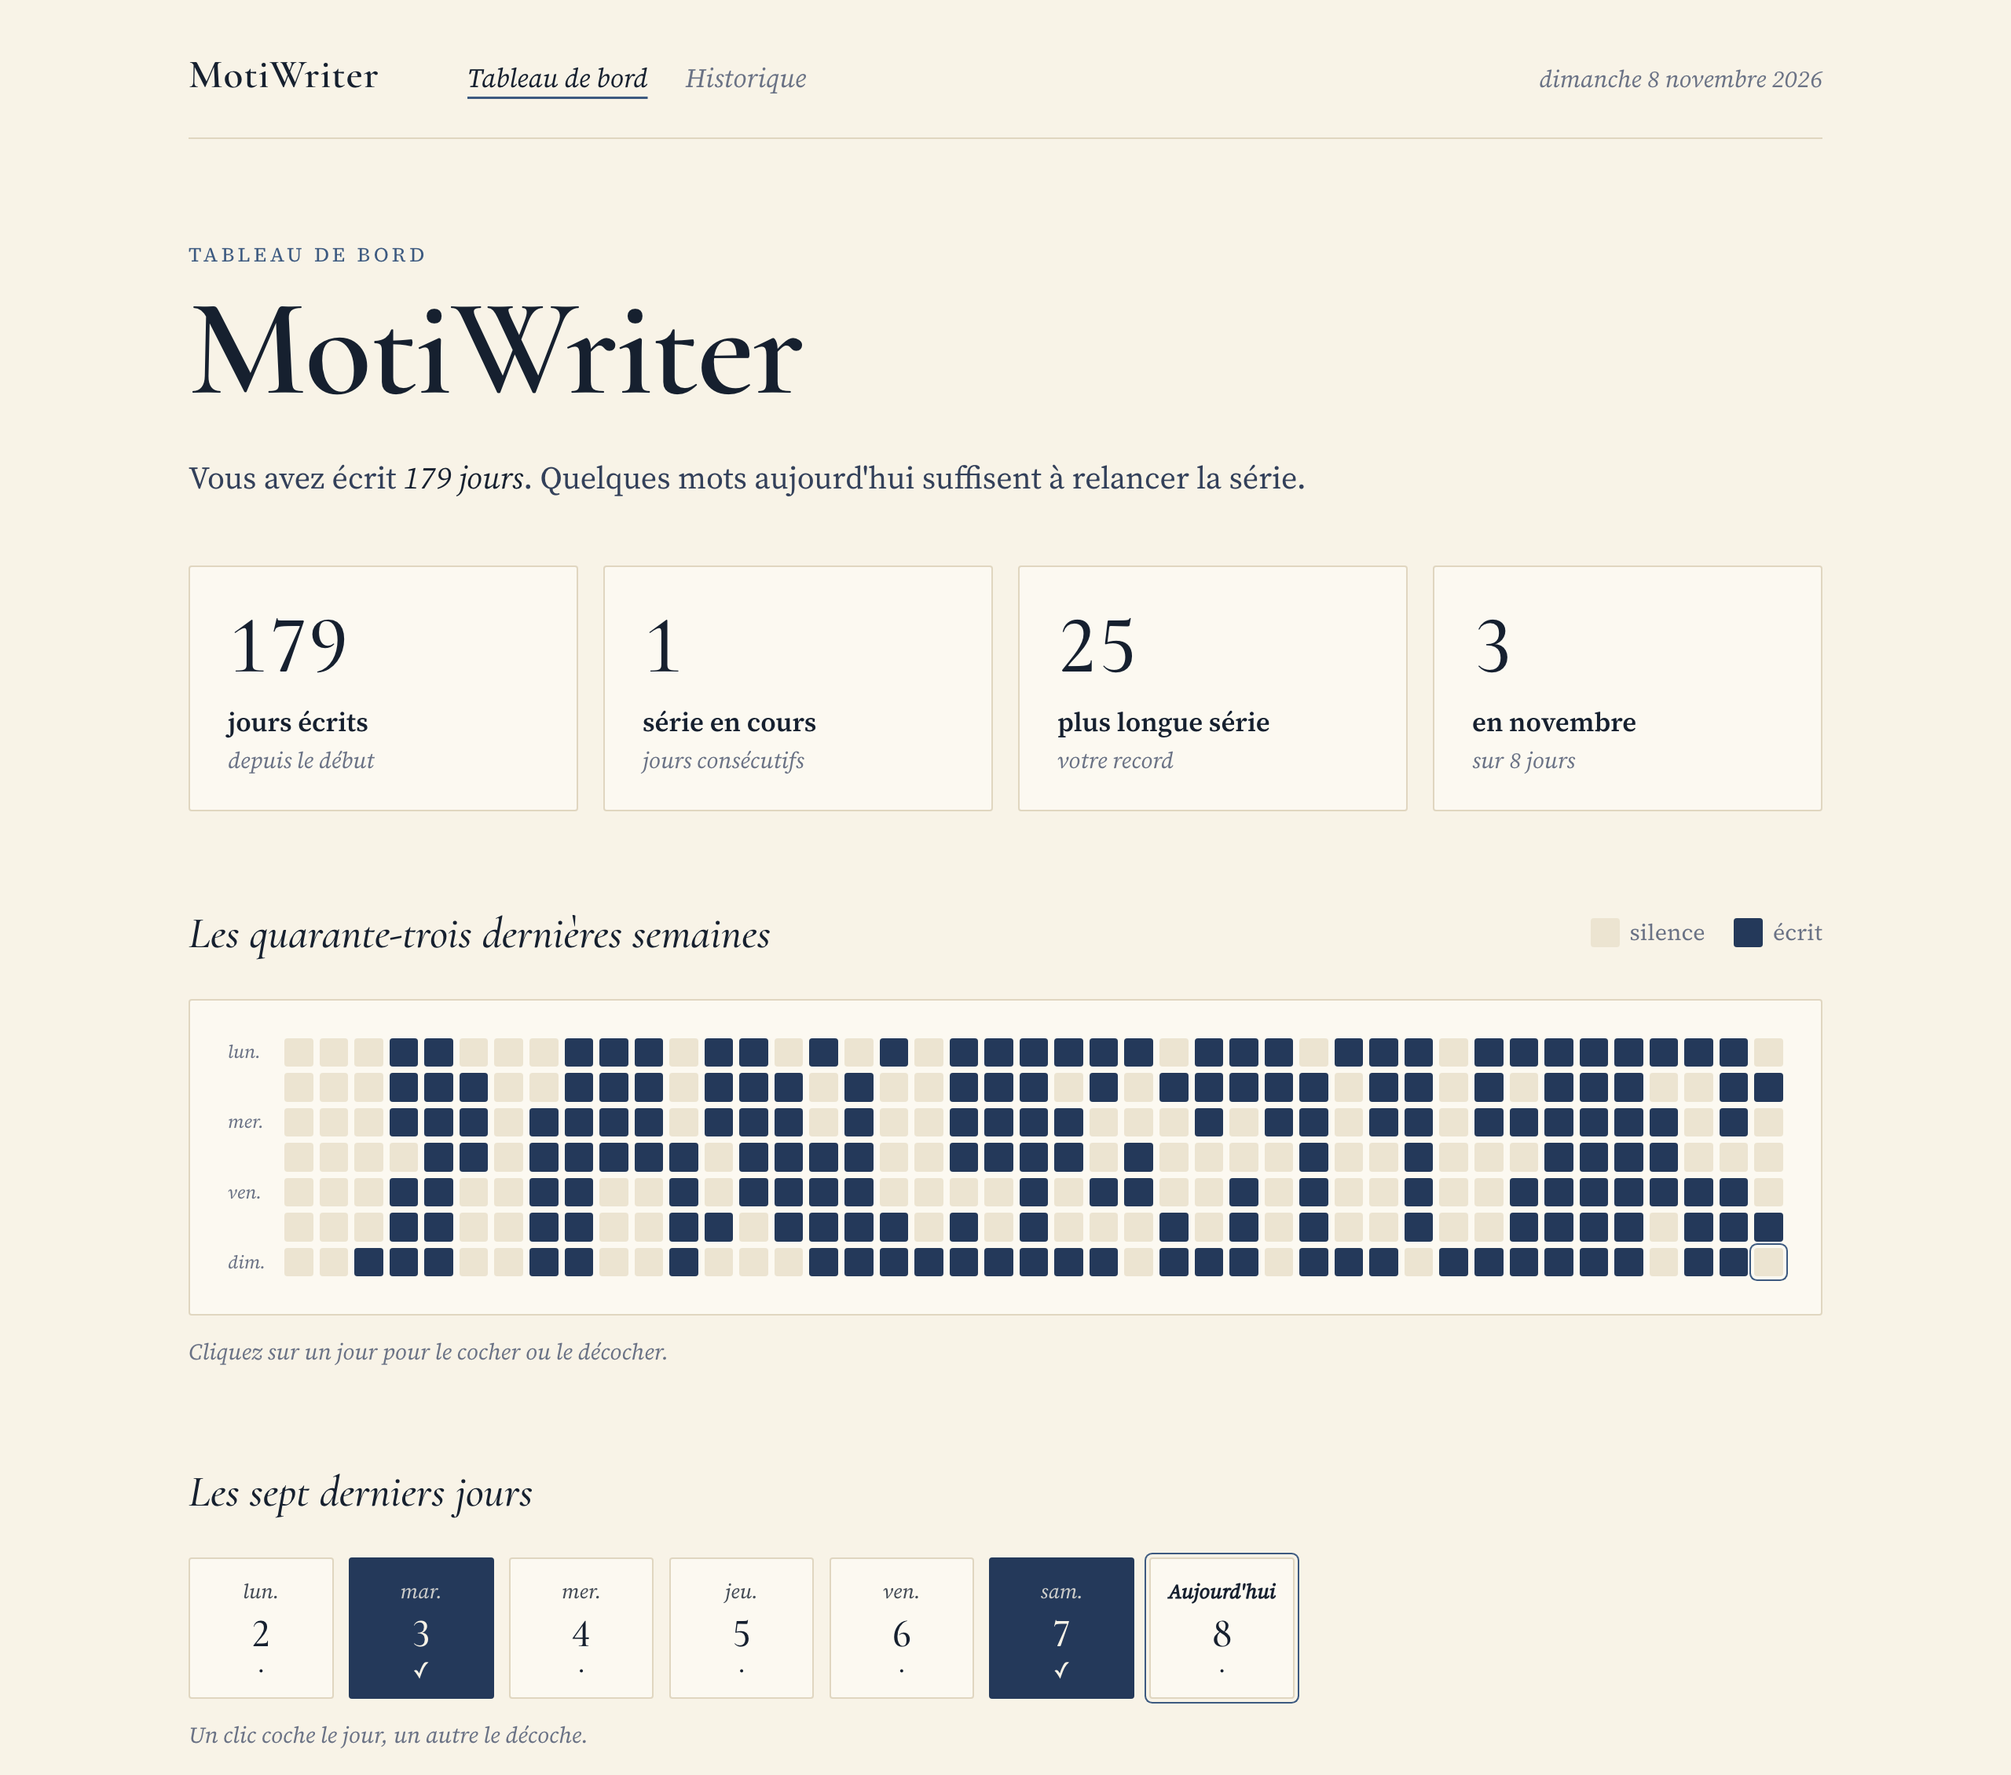
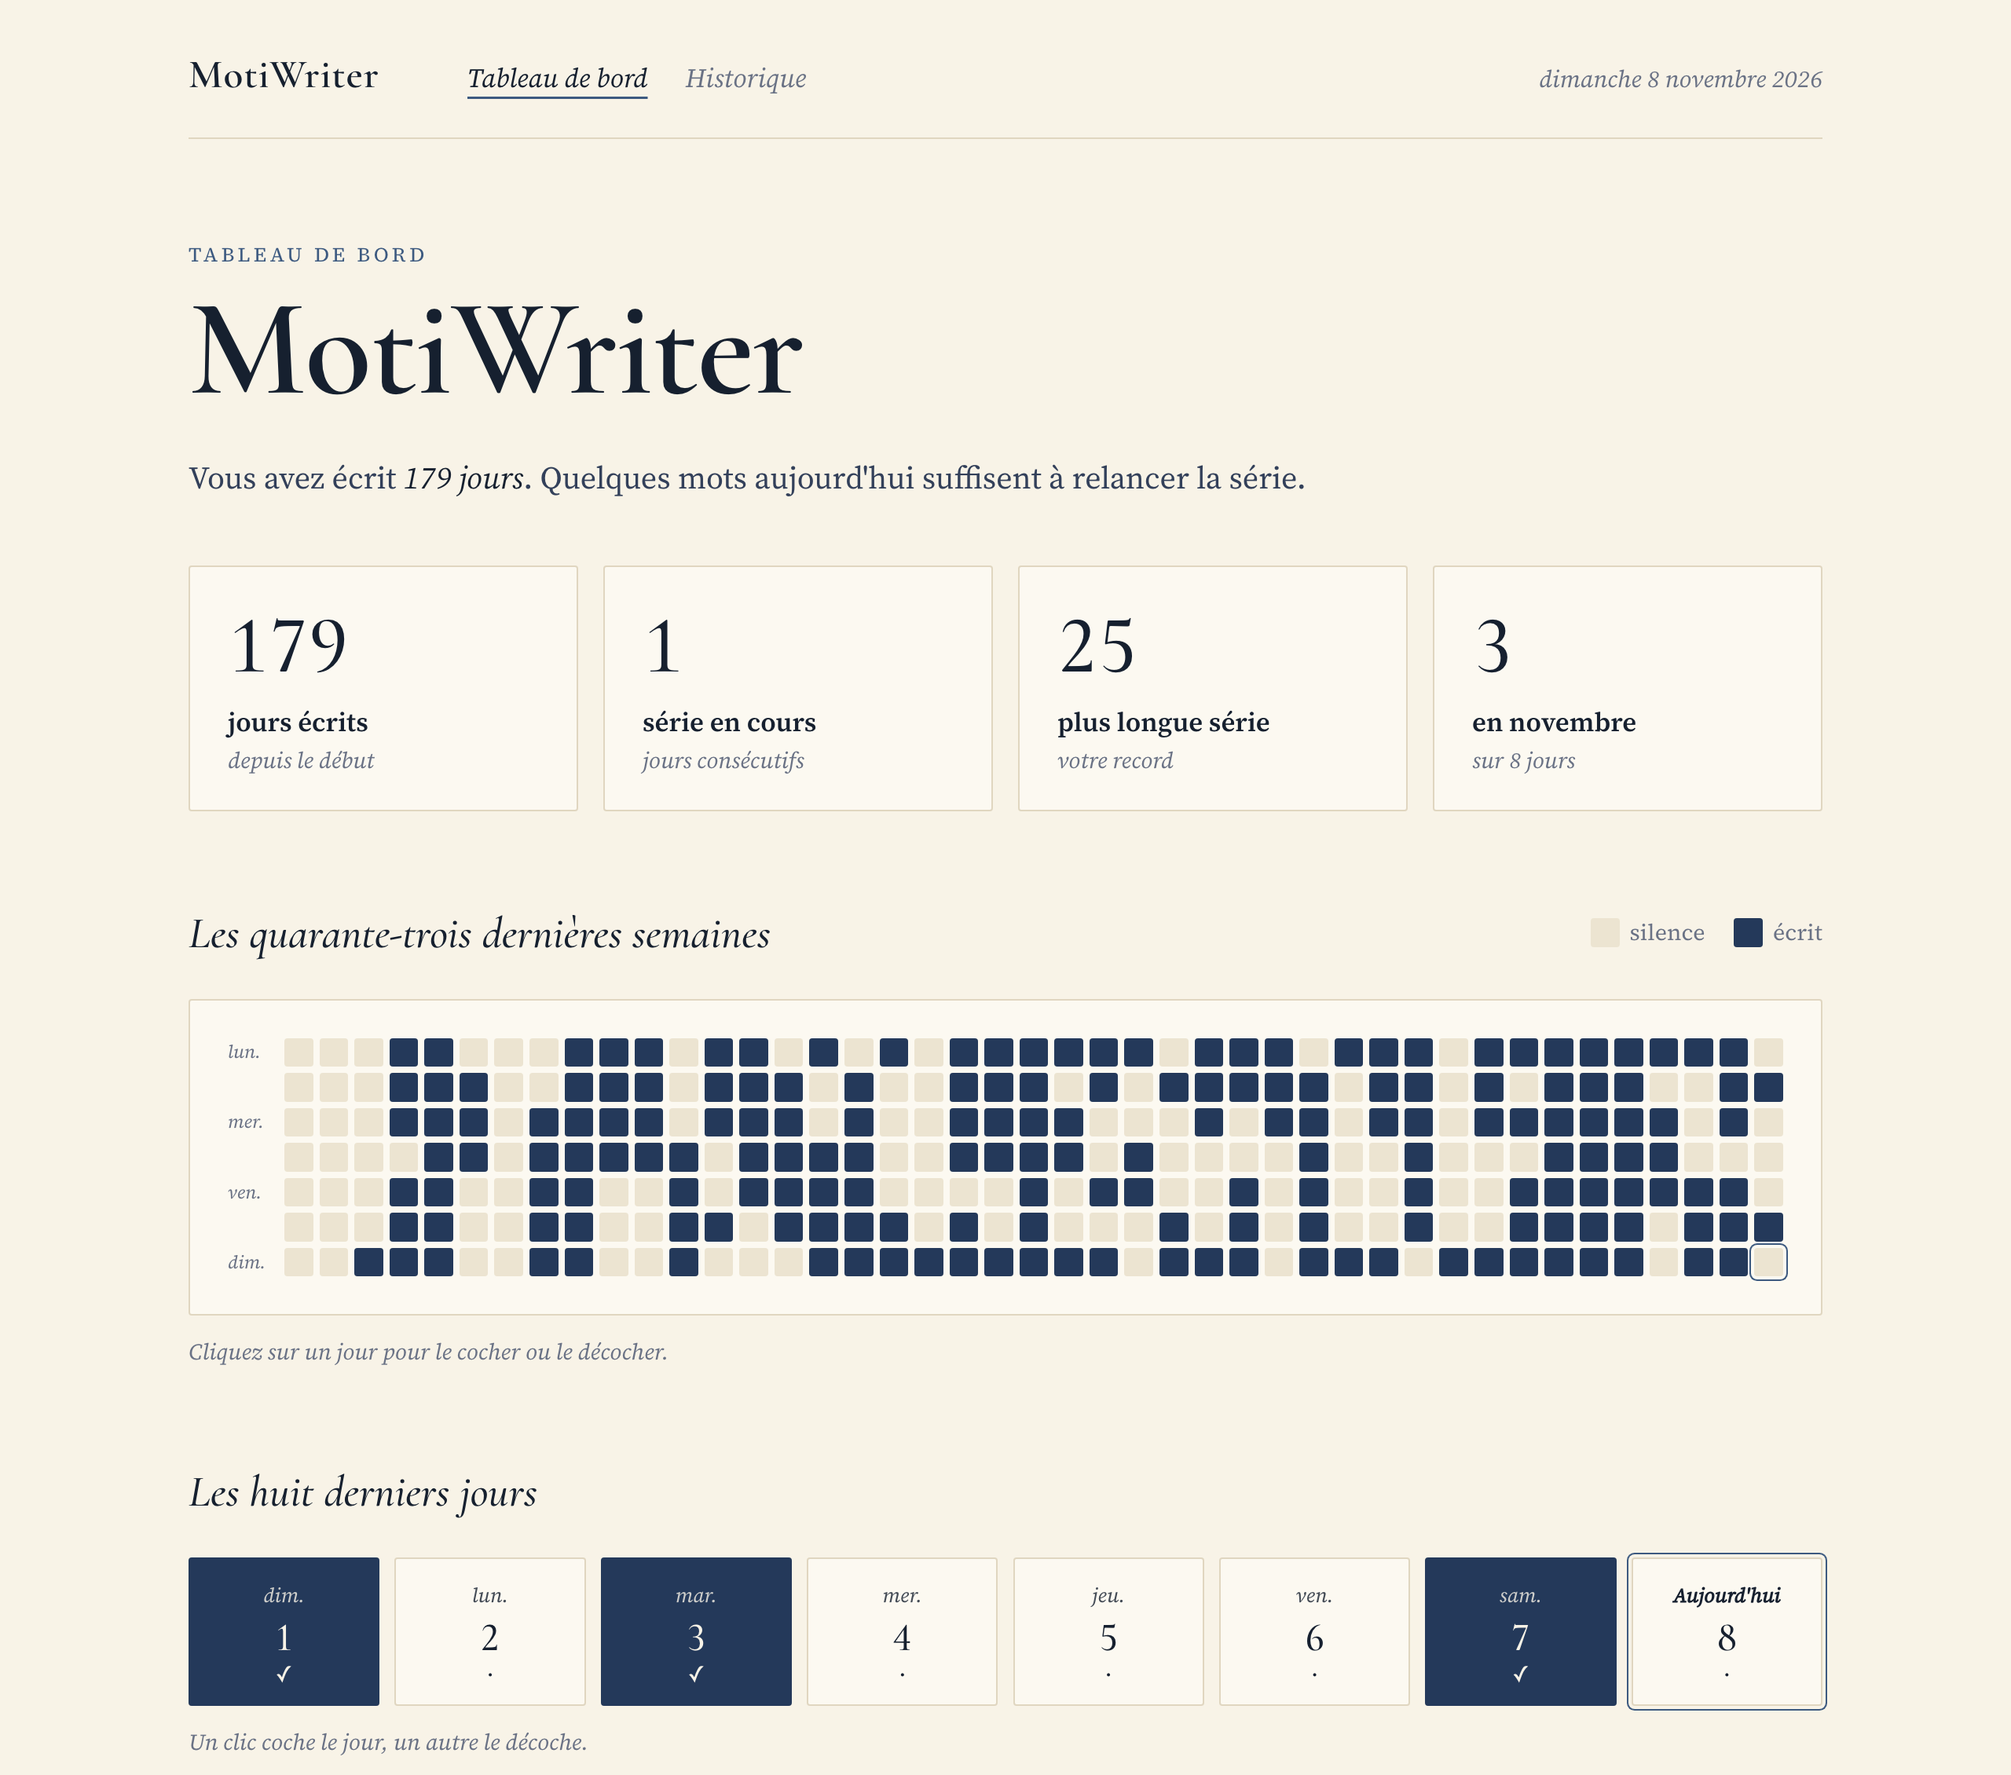
Passe la bande des derniers jours à huit cases sur toute la largeur
- Huit jours (aujourd'hui compris) au lieu de sept : sur écran étroit,
  la bande passe proprement sur deux rangées de quatre
- Les cases occupent toute la largeur, sans contrainte de format carré
- DashboardSummary.LastSevenDays devient RecentDays, et GetSummaryAsync
  accepte le nombre de jours (8 par défaut)
- Titre en toutes lettres (« Les huit derniers jours »), documentation
  et capture du site mises à jour

diff --git a/src/MotiWriter.Web/Components/Dashboard/RecentDays.razor.css b/src/MotiWriter.Web/Components/Dashboard/RecentDays.razor.css
@@ -11,11 +11,11 @@ h2 {
     color: var(--ink);
 }
 
+/* Huit cases sur toute la largeur ; sur écran étroit, deux rangées de quatre. */
 .days {
     display: grid;
-    grid-template-columns: repeat(7, minmax(0, 1fr));
+    grid-template-columns: repeat(8, minmax(0, 1fr));
     gap: 0.6rem;
-    max-width: 44rem;
 }
 
 .day {
@@ -23,7 +23,7 @@ h2 {
     flex-direction: column;
     align-items: center;
     gap: 0.15rem;
-    padding: 0.7rem 0.25rem 0.6rem;
+    padding: 0.85rem 0.25rem 0.75rem;
     font: inherit;
     color: var(--ink);
     background: var(--paper-raised);
@@ -89,13 +89,13 @@ h2 {
     min-height: 1em;
 }
 
-@media (max-width: 30rem) {
-    .days { gap: 0.3rem; }
-    .day { padding: 0.55rem 0 0.5rem; }
-    .num { font-size: 1.3rem; }
+@media (max-width: 44rem) {
+    .days { grid-template-columns: repeat(4, minmax(0, 1fr)); }
 }
 
-@media (max-width: 36rem) {
+@media (max-width: 24rem) {
+    .days { gap: 0.4rem; }
+    .num { font-size: 1.3rem; }
     .long { display: none; }
     .short { display: inline; }
 }

diff --git a/site/index.html b/site/index.html
@@ -288,7 +288,7 @@
 
             <figure class="preview">
                 <img src="apercu.png" width="2560" height="2260"
-                     alt="Le tableau de bord de MotiWriter : quatre statistiques (jours écrits, série en cours, plus longue série, jours du mois), un calendrier cliquable qui remplit toute la largeur et la bande des sept derniers jours, terminée par « Aujourd'hui »." />
+                     alt="Le tableau de bord de MotiWriter : quatre statistiques (jours écrits, série en cours, plus longue série, jours du mois), un calendrier cliquable qui remplit toute la largeur et la bande des huit derniers jours, terminée par « Aujourd'hui »." />
                 <figcaption>Le tableau de bord (données d'exemple).</figcaption>
             </figure>
 

diff --git a/tests/MotiWriter.Core.Tests/DashboardServiceTests.cs b/tests/MotiWriter.Core.Tests/DashboardServiceTests.cs
@@ -39,18 +39,16 @@ public class DashboardServiceTests
     }
 
     [Fact]
-    public async Task Last_seven_days_end_today()
+    public async Task Recent_days_are_eight_by_default_and_end_today()
     {
-        await _journal.SetWrittenAsync(Today.AddDays(-1), true, Now);
-
-        // Mercredi 4 novembre : du jeudi 29 octobre au mercredi 4 novembre.
-        await _journal.SetWrittenAsync(new DateOnly(2026, 10, 29), true, Now);
+        // Mercredi 4 novembre : du mercredi 28 octobre au mercredi 4 novembre.
+        await _journal.SetWrittenAsync(new DateOnly(2026, 10, 28), true, Now);
         var wednesday = new DashboardService(_journal, new FakeTimeProvider(Now.AddDays(-4)));
 
-        var days = (await wednesday.GetSummaryAsync()).LastSevenDays;
+        var days = (await wednesday.GetSummaryAsync()).RecentDays;
 
-        Assert.Equal(7, days.Count);
-        Assert.Equal(new DateOnly(2026, 10, 29), days[0].Date);
+        Assert.Equal(8, days.Count);
+        Assert.Equal(new DateOnly(2026, 10, 28), days[0].Date);
         Assert.Equal(new DateOnly(2026, 11, 4), days[^1].Date);
         Assert.True(days[0].Written);
         Assert.All(days, d => Assert.False(d.IsFuture));

diff --git a/src/MotiWriter.Core/Dashboard/DashboardService.cs b/src/MotiWriter.Core/Dashboard/DashboardService.cs
@@ -5,9 +5,10 @@ namespace MotiWriter.Core.Dashboard;
 
 public sealed class DashboardService(IWritingJournal journal, TimeProvider timeProvider) : IDashboardService
 {
-    public async Task<DashboardSummary> GetSummaryAsync(int weeks = 20, CancellationToken cancellationToken = default)
+    public async Task<DashboardSummary> GetSummaryAsync(int weeks = 20, int recentDays = 8, CancellationToken cancellationToken = default)
     {
         ArgumentOutOfRangeException.ThrowIfLessThan(weeks, 1);
+        ArgumentOutOfRangeException.ThrowIfLessThan(recentDays, 1);
 
         var today = DateOnly.FromDateTime(timeProvider.GetLocalNow().DateTime);
         var days = await journal.GetWritingDaysAsync(cancellationToken);
@@ -17,7 +18,7 @@ public sealed class DashboardService(IWritingJournal journal, TimeProvider timeP
             days.Contains(today),
             WritingStatisticsCalculator.Compute(days, today),
             BuildCalendar(days, today, weeks),
-            BuildLastDays(days, today, count: 7));
+            BuildLastDays(days, today, recentDays));
     }
 
     private static List<CalendarDay> BuildLastDays(IReadOnlySet<DateOnly> days, DateOnly today, int count) =>

diff --git a/src/MotiWriter.Core/Dashboard/DashboardSummary.cs b/src/MotiWriter.Core/Dashboard/DashboardSummary.cs
@@ -7,13 +7,13 @@ namespace MotiWriter.Core.Dashboard;
 /// <param name="WrittenToday">Vrai si aujourd'hui est déjà marqué écrit.</param>
 /// <param name="Statistics">Statistiques agrégées.</param>
 /// <param name="Weeks">Calendrier des dernières semaines (lundi → dimanche), la dernière étant la semaine en cours.</param>
-/// <param name="LastSevenDays">Les sept derniers jours, du plus ancien à aujourd'hui inclus.</param>
+/// <param name="RecentDays">Les derniers jours (huit par défaut), du plus ancien à aujourd'hui inclus.</param>
 public sealed record DashboardSummary(
     DateOnly Today,
     bool WrittenToday,
     WritingStatistics Statistics,
     IReadOnlyList<CalendarWeek> Weeks,
-    IReadOnlyList<CalendarDay> LastSevenDays);
+    IReadOnlyList<CalendarDay> RecentDays);
 
 public sealed record CalendarWeek(IReadOnlyList<CalendarDay> Days);
 

diff --git a/src/MotiWriter.Core/Dashboard/IDashboardService.cs b/src/MotiWriter.Core/Dashboard/IDashboardService.cs
@@ -2,5 +2,7 @@ namespace MotiWriter.Core.Dashboard;
 
 public interface IDashboardService
 {
-    Task<DashboardSummary> GetSummaryAsync(int weeks = 20, CancellationToken cancellationToken = default);
+    /// <param name="weeks">Nombre de semaines du calendrier (lundi → dimanche).</param>
+    /// <param name="recentDays">Nombre de jours de la bande des derniers jours, aujourd'hui compris.</param>
+    Task<DashboardSummary> GetSummaryAsync(int weeks = 20, int recentDays = 8, CancellationToken cancellationToken = default);
 }

diff --git a/src/MotiWriter.Web/Formatting/FrenchNumbers.cs b/src/MotiWriter.Web/Formatting/FrenchNumbers.cs
@@ -32,6 +32,10 @@ public static class FrenchNumbers
         };
     }
 
+    /// <summary>« Aujourd'hui », « Les huit derniers jours ».</summary>
+    public static string LastDaysTitle(int days) =>
+        days <= 1 ? "Aujourd'hui" : $"Les {InWords(days)} derniers jours";
+
     /// <summary>« La dernière semaine », « Les quarante-deux dernières semaines ».</summary>
     public static string LastWeeksTitle(int weeks) =>
         weeks <= 1 ? "La dernière semaine" : $"Les {InWords(weeks)} dernières semaines";

diff --git a/docs/architecture.md b/docs/architecture.md
@@ -45,7 +45,7 @@ La solution utilise le format `MotiWriter.slnx`. Le SDK est fixé par `global.js
 |---|---|
 | `Journal/` | `IWritingJournal` : contrat de **stockage** (lire les jours, fixer l'état d'un jour, lire l'historique). `IWritingDayService` / `WritingDayService` : **saisie** (cocher, décocher, inverser) et **historique** (liste, ou regroupé par mois avec `HistoryMonth`), avec les règles métier. `WritingDayChange` : une entrée d'historique. `InMemoryWritingJournal` : implémentation en mémoire pour les tests. |
 | `Statistics/` | `WritingStatistics` (record) et `WritingStatisticsCalculator` : **calcul pur**, sans effet de bord, qui prend un ensemble de dates et « aujourd'hui ». |
-| `Dashboard/` | `IDashboardService` / `DashboardService` : assemble tout ce que la page d'accueil affiche dans un seul objet `DashboardSummary` (aujourd'hui écrit ou non, statistiques, calendrier des N dernières semaines, sept derniers jours). |
+| `Dashboard/` | `IDashboardService` / `DashboardService` : assemble tout ce que la page d'accueil affiche dans un seul objet `DashboardSummary` (aujourd'hui écrit ou non, statistiques, calendrier des N dernières semaines, huit derniers jours). |
 | `ServiceCollectionExtensions.cs` | `AddMotiWriterCore()` : enregistre les services métier et `TimeProvider.System`. |
 
 Règles métier :
@@ -102,7 +102,7 @@ La base est en mode WAL.
   (seul le mois en cours est ouvert), rendu statique, sans JavaScript.
 - `Components/Dashboard/` : composants du tableau de bord, sans logique métier, qui signalent
   les clics par un `EventCallback<DateOnly>` :
-  `WritingCalendar` (calendrier cliquable), `RecentDays` (« Les sept derniers jours »), `HistoryList`.
+  `WritingCalendar` (calendrier cliquable), `RecentDays` (« Les huit derniers jours »), `HistoryList`.
 - Le tableau de bord charge 53 semaines ; `WritingCalendar` n'affiche que les plus récentes qui
   tiennent en largeur. Son module JavaScript isolé (`WritingCalendar.razor.js`) mesure le calendrier
   avec un `ResizeObserver` et renvoie le nombre de semaines au composant ; la grille CSS

diff --git a/docs/charte-graphique.md b/docs/charte-graphique.md
@@ -61,15 +61,17 @@ Repères :
 ## Composants
 
 - **Ordre du tableau de bord** : surtitre, titre et phrase d'accueil (sur toute la largeur),
-  puis les quatre cartes de statistiques, le calendrier, la bande « Les sept derniers jours »
+  puis les quatre cartes de statistiques, le calendrier, la bande « Les huit derniers jours »
   et les dernières modifications.
 - **Bandeau** : nom de marque à gauche, puis la navigation (« Tableau de bord », « Historique »)
   en italique `--ink-muted` (page active en `--ink`, soulignée en `--accent`), date du jour en
   italique à droite, filet `--rule` en dessous.
-- **Bande « Les sept derniers jours »** (`RecentDays`) : sept pastilles égales, se terminant
-  par aujourd'hui (jour abrégé en italique, numéro en Cormorant, ✓ ou ·). La dernière porte
-  « Aujourd'hui » en gras (« Auj. » sur petit écran). Écrit : plein `--ink-blue` ; non écrit :
-  `--paper-raised` bordé `--rule` ; aujourd'hui : anneau `--accent`.
+- **Bande « Les huit derniers jours »** (`RecentDays`) : huit pastilles égales sur toute la
+  largeur, se terminant par aujourd'hui (jour abrégé en italique, numéro en Cormorant, ✓ ou ·) ;
+  elles ne sont pas carrées, leur largeur suit l'écran. Sous 44rem, elles passent sur deux rangées
+  de quatre (d'où huit jours plutôt que sept). La dernière porte « Aujourd'hui » en gras
+  (« Auj. » sur très petit écran). Écrit : plein `--ink-blue` ; non écrit : `--paper-raised`
+  bordé `--rule` ; aujourd'hui : anneau `--accent`.
 - **Carte de statistique** (`StatCard`) : fond `--paper-raised`, bordure `--rule`, coins à peine
   arrondis (2px), grand chiffre, libellé en gras, légende en italique.
 - **Calendrier** (`WritingCalendar`) : une colonne par semaine (lundi → dimanche), une case

diff --git a/docs/objectif.md b/docs/objectif.md
@@ -22,7 +22,7 @@ Une seule action — **cocher ou décocher un jour** — accessible à deux endr
 
 | Où | Pour quoi |
 |---|---|
-| La bande **« Les sept derniers jours »**, dont la dernière case s'appelle « Aujourd'hui » | Le geste quotidien, et le rattrapage d'un oubli récent (« j'ai oublié de noter hier »). Grandes pastilles, faciles à toucher sur téléphone. |
+| La bande **« Les huit derniers jours »**, dont la dernière case s'appelle « Aujourd'hui » | Le geste quotidien, et le rattrapage d'un oubli récent (« j'ai oublié de noter hier »). Grandes pastilles, faciles à toucher sur téléphone. |
 | Le **calendrier** des dernières semaines (autant qu'il en tient dans la largeur, jusqu'à un an) | Corriger un jour plus ancien : chaque case se coche ou se décoche d'un clic. |
 
 Les jours futurs ne peuvent pas être cochés.

diff --git a/docs/feuille-de-route.md b/docs/feuille-de-route.md
@@ -8,7 +8,7 @@
   jours du mois — couvert par des tests.
 - Tableau de bord : titre, phrase d'encouragement, quatre cartes, calendrier des 20 dernières semaines.
 - Charte graphique crème et encre, typographie serif.
-- **Saisie des jours** : bande « Les sept derniers jours » (dont « Aujourd'hui ») et
+- **Saisie des jours** : bande « Les huit derniers jours » (dont « Aujourd'hui ») et
   calendrier cliquable ; jours futurs refusés.
 - **Historique** de chaque modification (tableau de bord et page dédiée, regroupée par mois).
 - **Stockage SQLite** (`MotiWriter.Infrastructure`) avec schéma versionné.
